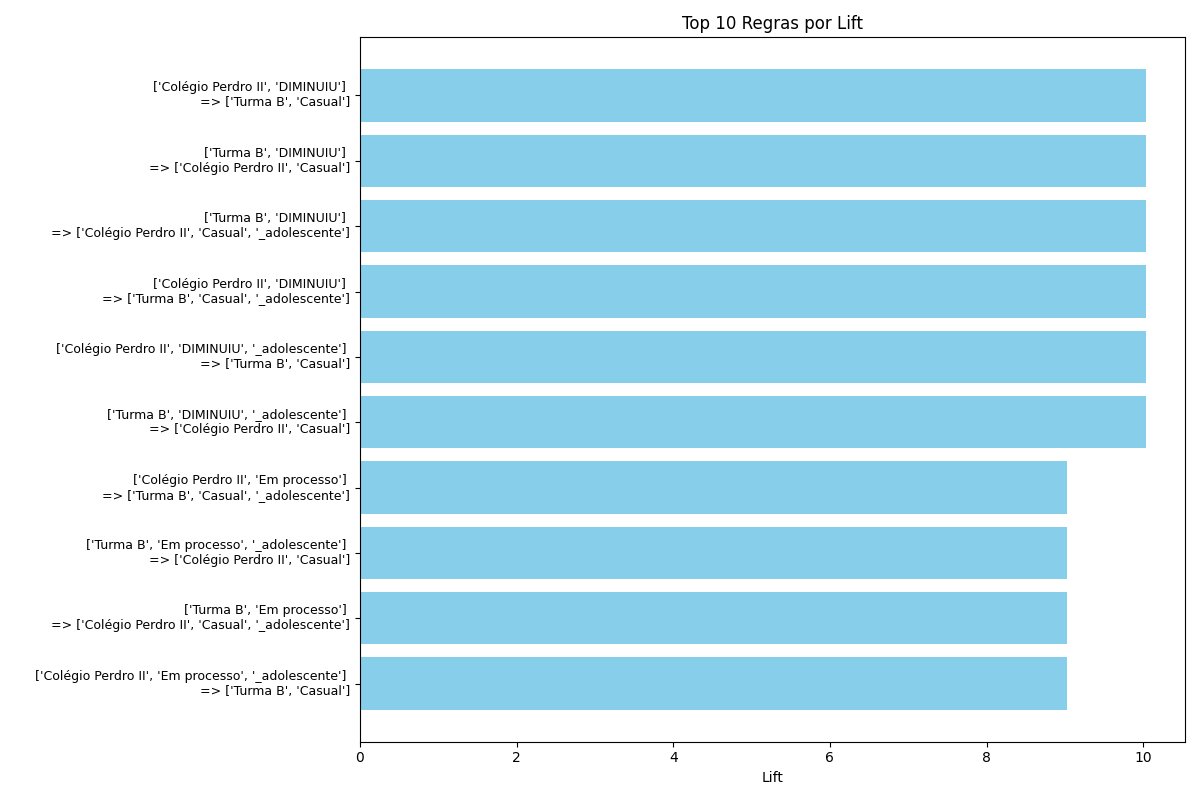
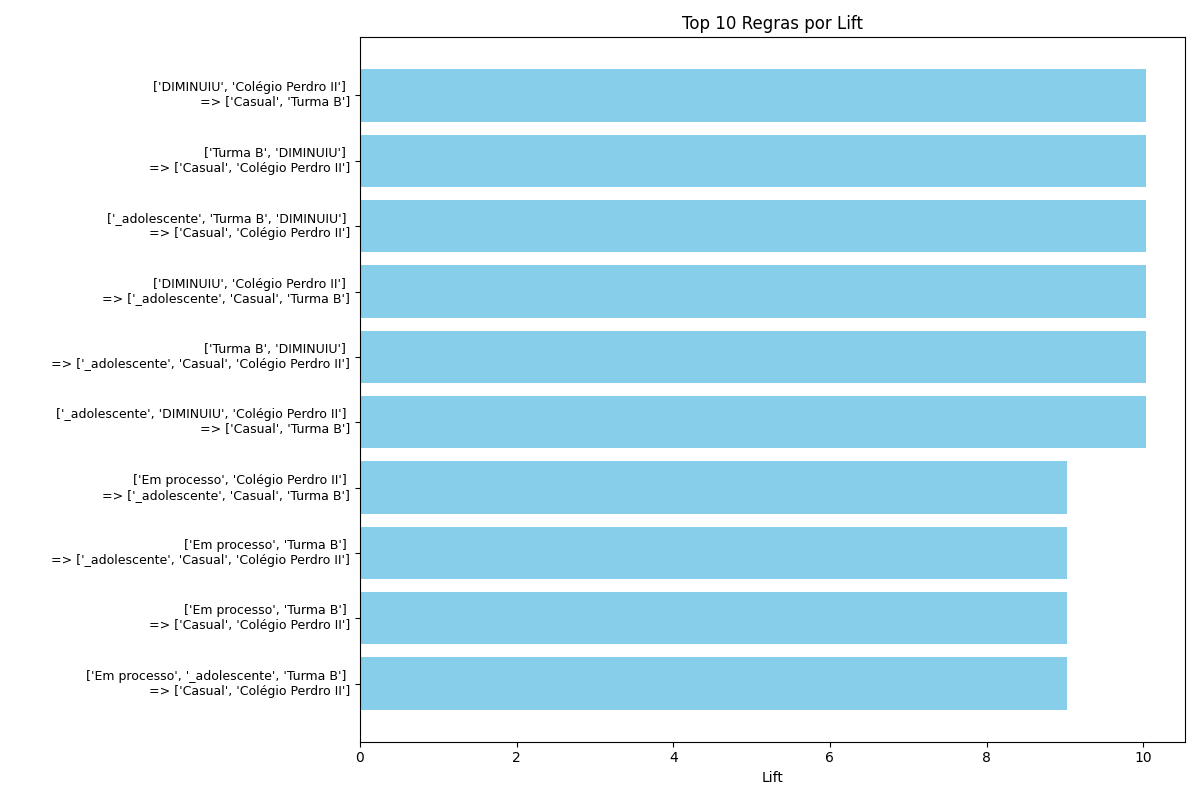
inclusao de filtros no serviço numem de palavras

diff --git a/mmd-api/api/v1/endpoints/nuvem_palavras.py b/mmd-api/api/v1/endpoints/nuvem_palavras.py
@@ -18,7 +18,7 @@ from models.negocio.tema import TemaModel
 from models.negocio.area import AreaModel
 from models.negocio.categoria import CategoriaModel
 from models.negocio.perguntas_categorias import PerguntasCategoriasModel
-from schemas.nuvem_palavras_schema import NuvemPalavraSchema
+from schemas.nuvem_palavras_schema import NuvemFilterSchema, NuvemPalavraSchema
 from core.deps import get_session_JEDi, get_current_user
 from api.v1.endpoints.utils.utils import gerar_nuvem_palavras 
 
@@ -26,10 +26,16 @@ router = APIRouter(redirect_slashes=False)
 
 # GET Regras
 @router.get('', status_code=status.HTTP_200_OK, response_model=NuvemPalavraSchema)
-async def get_palavras(request: Request, usuario_logado: UsuarioModel = Depends(get_current_user), db: AsyncSession = Depends(get_session_JEDi)):
+async def get_palavras(
+    request: Request,
+    filters: NuvemFilterSchema = Depends(),
+    usuario_logado: UsuarioModel = Depends(get_current_user),
+    db: AsyncSession = Depends(get_session_JEDi)
+):
     try:
         async with db as session:
             query = (select(
+                PerguntasModel.id,
                 PerguntasModel.pergunta,
                 PerguntasModel.respcerta,
                 TemaModel.nome.label('tema'),
@@ -40,8 +46,19 @@ async def get_palavras(request: Request, usuario_logado: UsuarioModel = Depends(
             .join(AreaModel, TemaModel.id_area == AreaModel.id)
             .join(PerguntasCategoriasModel, PerguntasModel.id == PerguntasCategoriasModel.id_pergunta)
             .join(CategoriaModel, PerguntasCategoriasModel.id_categoria == CategoriaModel.id))
+            if filters.area:
+                query = query.where(AreaModel.id == filters.area)
+            if filters.tema:
+                query = query.where(TemaModel.nome == filters.tema)
+            if filters.categoria:
+                query = query.where(CategoriaModel.descricao == filters.categoria)
+            if filters.respcerta:
+                query = query.where(PerguntasModel.respcerta == filters.respcerta)
             result = await session.execute(query)
             registros = result.all()
+        
+        if len(registros) == 0:
+            raise HTTPException(detail='Não foi possível gerar os dados.', status_code=status.HTTP_404_NOT_FOUND)
 
         # Unificando tudo em um único texto
         texto_completo = " ".join([reg.pergunta for reg in registros])
@@ -94,6 +111,7 @@ async def get_palavras(request: Request, usuario_logado: UsuarioModel = Depends(
         }
 
         return {
+            "total_registros": len(registros),
             "dados": registros,
             "texto_completo": texto_completo,
             "link_grafico": link 

diff --git a/mmd-api/schemas/nuvem_palavras_schema.py b/mmd-api/schemas/nuvem_palavras_schema.py
@@ -21,7 +21,15 @@ class PerguntaBaseSchema(BaseModel):
     # Necessário para o Pydantic ler objetos do SQLAlchemy
     model_config = ConfigDict(from_attributes=True)
 
+class NuvemFilterSchema(BaseModel):
+        
+    area: Optional[str] = None
+    tema: Optional[str] = None
+    categoria: Optional[str] = None
+    respcerta: Optional[str] = None
+
 class NuvemItemSchema(BaseModel):
+    id: int
     pergunta: str
     respcerta: str
     tema: str
@@ -30,6 +38,7 @@ class NuvemItemSchema(BaseModel):
 
 class NuvemPalavraSchema(BaseModel):
     # Define que a resposta será uma lista de perguntas
+    total_registros: int
     dados: List[NuvemItemSchema]
     texto_completo: str
     link_grafico: Dict[str, str]
